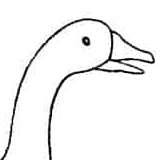
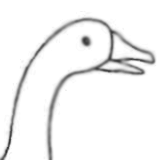
feat: add points of sales
blur noItem.png

Changed region(s): [[0.0, 0.0938, 1.0, 1.0], [0.5, 0.2188, 0.5938, 0.3125]]

diff --git a/src/packages/menu/Items.jsx b/src/packages/menu/Items.jsx
@@ -14,64 +14,69 @@ export default function Items() {
 
   return (
     <div className={s.menuItems}>
-      {menu.map((p) => (
-        <li
-          className={s.foodElement}
-          style={isFoodIn(p.name) ? { background: "#1d3e1f" } : null}
-          key={p.id}
-        >
-          <div
-            className={`
+      {menu.length === 0 ? (
+        <div className={s.emptyDialog}>Empty</div>
+      ) : (
+        menu.map((p) => (
+          <li
+            className={s.foodElement}
+            style={isFoodIn(p.name) ? { background: "#1d3e1f" } : null}
+            key={p.id}
+          >
+            <div
+              className={`
             ${s.item} 
             ${isFoodIn(p.name) ? s.itemActive : s.itemNotActive}
             `}
-          >
-            <GetImgFood imgName={p.icon} style={s.foodImg} />
-            <div className={s.name}>
-              <span>{p.name}</span>
-            </div>
-            <div className={s.sectorOfPriceCountBuy}>
-              <div className={s.price}>
-                <div>{p.cost + " ₽"}</div>
+            >
+              <GetImgFood imgName={p.icon} style={s.foodImg} />
+              <div className={s.name}>
+                <span>{p.name}</span>
               </div>
-              {(() => {
-                if (isFoodIn(p.name)) {
-                  return (
-                    <div className={s.deleteAndCountFood}>
-                      <ButtonDelete
-                        text={"-"}
-                        name={p.name}
-                        cost={p.cost}
-                        style={s.deleteItem}
-                      />
-                      <div className={s.countItem}>
-                        {
-                          store.selectedFood.find((el) => el.name === p.name)
-                            .amount
-                        }
+              <div className={s.sectorOfPriceCountBuy}>
+                <div className={s.price}>
+                  <div>{p.cost + " ₽"}</div>
+                </div>
+                {(() => {
+                  if (isFoodIn(p.name)) {
+                    return (
+                      <div className={s.deleteAndCountFood}>
+                        <ButtonDelete
+                          text={"-"}
+                          name={p.name}
+                          cost={p.cost}
+                          style={s.deleteItem}
+                        />
+                        <div className={s.countItem}>
+                          {
+                            store.selectedFood.find((el) => el.name === p.name)
+                              .amount
+                          }
+                        </div>
                       </div>
-                    </div>
-                  );
-                }
-              })()}
-              <ButtonAdd
-                text={"add"}
-                name={p.name}
-                cost={p.cost}
-                style={s.buyButton}
-              />
+                    );
+                  }
+                })()}
+                <ButtonAdd
+                  text={"add"}
+                  name={p.name}
+                  cost={p.cost}
+                  style={s.buyButton}
+                />
+              </div>
+              <div className={s.description}>
+                {(() => {
+                  if (p.description.length < 1) {
+                    p.description =
+                      "Пока ещё нет описания. Но это очень вкусно";
+                  }
+                })()}
+                {p.description}
+              </div>
             </div>
-            <div className={s.description}>
-              {(() => {
-                if (p.description.length < 1) {
-                  p.description = "Пока ещё нет описания. Но это очень вкусно";
-                }
-              })()}
-              {p.description}
-            </div>
-          </div>
-        </li>
-      ))}
+          </li>
+        ))
+      )}
     </div>
   );
 }

diff --git a/src/packages/menu/Menu.jsx b/src/packages/menu/Menu.jsx
@@ -2,39 +2,59 @@ import s from "./CSS/menu.module.css";
 import { useDispatch, useSelector } from "react-redux";
 import runForestRun from "../../files/img/runForestRun.png";
 import API from "../../files/API/api.js";
+import GetImgFood from "./GetImgFood.jsx";
 import Items from "./Items.jsx";
 import LeftBar from "./LeftBar.jsx";
 
 function MenuContainer() {
-  const menuOnDisplay = useSelector((state) => state.menu.menuOnDisplay);
+  const status = useSelector((state) => state.menu.status);
+  const shops = useSelector((state) => state.menu.shops);
   const dispatch = useDispatch();
 
-  switch (menuOnDisplay) {
-    case "Загрузка":
+  switch (status) {
+    case "Empty":
       API.getShops()
         .then((data) => {
-          dispatch({ type: "ALL_MENU", payload: data.data });
+          dispatch({ type: "LOAD_DATA", payload: data.data });
         })
         .catch((err) => {
           dispatch({ type: "ERROR", payload: err.message });
         });
-      return <div className={s.emptyItemDialog}>Loading</div>;
-    case "Пусто":
-      return (
-        <div className={"menu_container"}>
-          <LeftBar />
-          <div className={s.emptyItemDialog}>Nothing find</div>
-        </div>
-      );
-    case "Ошибка":
-      return <div className={s.emptyItemDialog}>Error get data</div>;
-    default:
+      return <div className={s.menuMessage}>Loading</div>;
+    case "Choose shop":
+      if (shops.length === 0)
+        dispatch({ type: "CHANGE_STATUS", payload: "Empty" });
+      else
+        return (
+          <div className={"menu_container"}>
+            <div className={s.roomName}>Точки продаж</div>
+            <div className={s.grid}>
+              {shops.map((el, index) => (
+                <li
+                  className={s.shops}
+                  key={el.id}
+                  onClick={() =>
+                    dispatch({ type: "CHANGE_SHOP", payload: index })
+                  }
+                >
+                  <GetImgFood imgName={""} style={s.img} />
+                  <span className={s.naming}>{el.name}</span>
+                </li>
+              ))}
+            </div>
+          </div>
+        );
+      break;
+    case "Choose food":
       return (
         <div className={"menu_container"}>
           <LeftBar />
           <Items />
         </div>
       );
+    default:
+      console.error(status);
+      return <div className={s.menuMessage}>Error</div>;
   }
 }
 

diff --git a/src/files/redux/menuStore.js b/src/files/redux/menuStore.js
@@ -1,46 +1,55 @@
 let menu = {
-  menuAll: [],
-  menuOnDisplay: "Загрузка",
-  categoryAll: [
-    {
-      id: 0,
-      name: "Все",
-      icon: "",
-    },
-  ],
-  categoryNow: [],
+  status: "Empty",
+  data: [],
+  shopId: 0,
+  shops: [],
+  menuOnDisplay: [],
+  category: [],
 };
+
+let category0 = [
+  {
+    id: 0,
+    name: "Все",
+    icon: "",
+  },
+];
 
 export const menuReducer = (state = menu, action) => {
   switch (action.type) {
-    //change naming
-    case "ALL_MENU":
-      let shops = action.payload;
+    case "LOAD_DATA":
+      if (action.payload.__proto__.constructor.name !== "Array") {
+        return { ...state, status: "Data isn't a Array" };
+      } else {
+        return {
+          ...state,
+          status: "Choose shop",
+          data: action.payload,
+          shops: action.payload,
+        };
+      }
+    case "CHANGE_SHOP":
+      let point = state.data;
+      let pointNumber = action.payload;
       return {
         ...state,
-        menuAll: shops[0].menu,
-        menuOnDisplay: shops[0].menu,
-        categoryAll: state.categoryAll.concat(shops[0].category),
-        categoryNow: state.categoryAll[0],
+        status: "Choose food",
+        category: category0.concat(point[pointNumber].category),
+        shopId: pointNumber,
+        menuOnDisplay: point[pointNumber].menu,
       };
-    // have to add check received data from server like
-    // if (typeof getData === "object" && getData.length !== 0) {
-    // } else return { ...state, menuOnDisplay: "Ошибка" };
     case "CHANGE_CATEGORY":
-      state.categoryNow = state.categoryAll.find(
-        (e) => e.id === action.payload
-      );
-      if (state.categoryNow.id === 0) {
-        state.menuOnDisplay = state.menuAll;
-      } else {
-        state.menuOnDisplay = state.menuAll.filter(
-          (e) => e.id_category === state.categoryNow.id
-        );
-        if (state.menuOnDisplay.length === 0) {
-          state.menuOnDisplay = "Пусто";
-        }
-      }
-      return state;
+      return {
+        ...state,
+        menuOnDisplay:
+          action.payload === 0
+            ? state.data[state.shopId].menu
+            : state.data[state.shopId].menu.filter(
+                (el) => el.id_category === action.payload
+              ),
+      };
+    case "CHANGE_STATUS":
+      return { ...state, status: action.payload };
     default:
       return state;
   }

diff --git a/src/packages/header/Header.jsx b/src/packages/header/Header.jsx
@@ -1,7 +1,7 @@
 import s from "./header.module.css";
 import { NavLink, Route } from "react-router-dom";
 import { useState } from "react";
-import { useSelector } from "react-redux";
+import { useDispatch, useSelector } from "react-redux";
 import shopCartIco from "../../files/img/shopCart.png";
 import LogoImg from "./logoGoose/LogoImage.jsx";
 import Cart from "../menu/Cart.jsx";
@@ -11,6 +11,7 @@ export default function Header() {
   const store = useSelector((state) => state.cart);
   const [isShowLogin, setShowLogin] = useState(false);
   const [isShowCart, setShowCart] = useState(false);
+  const dispatch = useDispatch();
 
   return (
     <div className={s.nav}>
@@ -33,6 +34,9 @@ export default function Header() {
               exact
               activeClassName={s.textActive}
               to="/menu"
+              onClick={() =>
+                dispatch({ type: "CHANGE_STATUS", payload: "Choose shop" })
+              }
             >
               Menu
             </NavLink>

diff --git a/src/packages/menu/CSS/menu.module.css b/src/packages/menu/CSS/menu.module.css
@@ -21,6 +21,45 @@
   }
 }
 
-.emptyItemDialog {
+.menuMessage {
   font-size: 30px;
+}
+
+.roomName {
+  font-size: 21px;
+  margin-top: 25px;
+  margin-left: 25px;
+}
+
+.grid {
+  display: grid;
+  grid-template-columns: repeat(auto-fill, 250px);
+  justify-content: space-evenly;
+  column-gap: 35px;
+  row-gap: 40px;
+  list-style: none;
+  margin-top: 40px;
+  margin-left: 70px;
+}
+
+.shops {
+  width: 250px;
+  height: 200px;
+  background: #1b1d23;
+  border-radius: 10px;
+  position: relative;
+  display: flex;
+}
+
+.img {
+  width: 100%;
+  height: 100%;
+  object-fit: cover;
+}
+
+.naming {
+  position: absolute;
+  margin-left: 7px;
+  bottom: 7px;
+  font-size: 21px;
 }

diff --git a/src/packages/menu/LeftBar.jsx b/src/packages/menu/LeftBar.jsx
@@ -5,8 +5,9 @@ import GetImgFood from "./GetImgFood.jsx";
 
 export default function LeftBar() {
   const [isCategoryShow, getCategoryShow] = useState(false);
-  const categoryAll = useSelector((state) => state.menu.categoryAll);
+  const category = useSelector((state) => state.menu.category);
   const dispatch = useDispatch();
+
   const changeCategory = (id) => {
     dispatch({ type: "CHANGE_CATEGORY", payload: id });
   };
@@ -26,7 +27,7 @@ export default function LeftBar() {
         <span />
         <span />
       </button>
-      {categoryAll.map((p) => (
+      {category.map((p) => (
         <button
           className={s.categoryBox}
           key={p.id}

diff --git a/src/packages/menu/CSS/items.module.css b/src/packages/menu/CSS/items.module.css
@@ -7,6 +7,10 @@
     row-gap: 0;
 }
 
+.emptyDialog {
+    font-size: 30px;
+}
+
 .foodElement {
     vertical-align: top;
     list-style: none;
